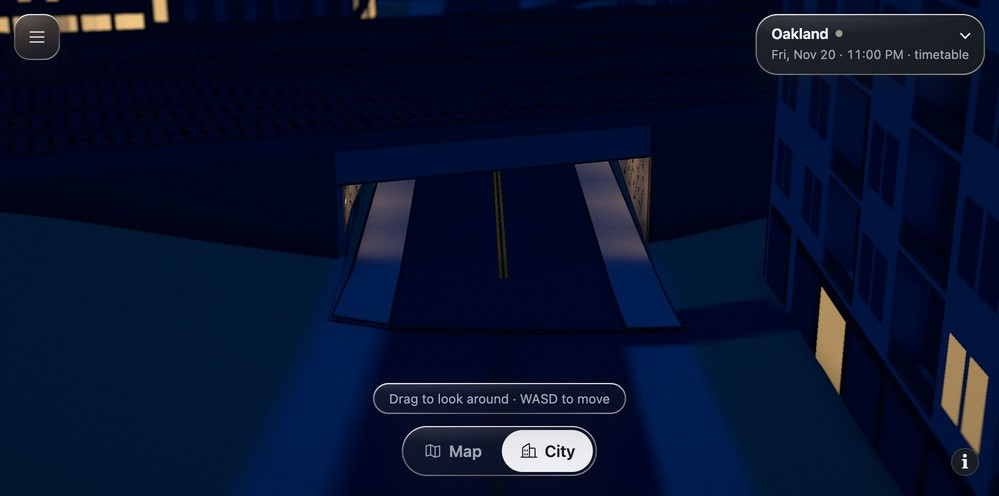
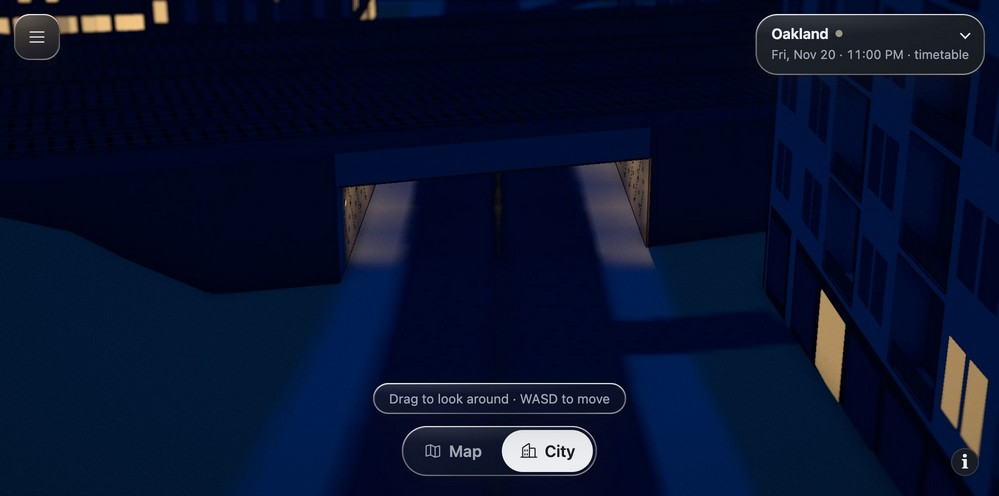
Blend Grant Street through the portal on continuous graded terrain

diff --git a/web/src/city/grant-street.ts b/web/src/city/grant-street.ts
@@ -1,41 +1,88 @@
 // Grant Street SE under the eight CSX tracks. Local geometry and NAVD88
 // evidence are documented in docs/king-freight-crossings.md.
 import type { MeshLambertMaterial } from 'three';
-import type { Builder, P2 } from '../vignette/geom';
-import { PAL } from '../vignette/world';
-import type { GroundYield } from '../terrain/surface';
+import type { Builder } from '../vignette/geom';
+import { PAL, type VRoad } from '../vignette/world';
+import { GroundGrid } from '../terrain/grid';
 
 type Ground = (x: number, z: number) => number | null;
-const zero = 323.8;
+const deckNavd = 313.66;
 const centre = (z: number) => 1381.41 + ((z - 488.14) * 0.73) / 39.29;
-export const grantRoadY = (z: number) => 307.66 + (z - 488.14) * 0.0046 - zero;
-const top = 313.66 - zero;
+const roadNavd = (z: number) => 307.66 + (z - 488.14) * 0.0046;
+const edge = (x: number, south: boolean) => (south ? 527.5 : 486.5) - (x - 1382) * (south ? 0.37 : 0.34);
+const smooth = (distance: number, width: number) => {
+  const t = Math.max(0, Math.min(1, distance / width));
+  return t * t * (3 - 2 * t);
+};
+
+// Keep the street on the actual drawn triangles. Interpolate the two portal
+// returns across the occluded pavement, feathering the approach and verges
+// back into the DEM before either terrain tier chooses its triangulation.
+export class GrantStreetGround extends GroundGrid {
+  override node(row: number, col: number) {
+    const y = super.node(row, col);
+    const { bounds, stepM } = this.manifest;
+    const z = bounds.minZ + row * stepM;
+    if (y === null || z <= 465 || z >= 550) return y;
+    const x = bounds.minX + col * stepM;
+    const weight = smooth(22 - Math.abs(x - centre(z)), 10) * smooth(z - 465, 20) * smooth(550 - z, 20);
+    const pavement = y + weight * (roadNavd(z) - y);
+    // Approach fill rises outside the walls and rolls down into the original
+    // terrain over the shoulder. The street and its painted sidewalks stay flat.
+    const offset = Math.abs(x - centre(z));
+    const bank =
+      smooth(offset - 12, 10) *
+      smooth(x - 1338, 15) *
+      smooth(1442 - x, 16) *
+      smooth(z - edge(x, false) + 8, 12) *
+      smooth(edge(x, true) + 8 - z, 12);
+    return pavement + bank * Math.max(0, deckNavd - 0.35 - pavement);
+  }
+}
+
+/** Paint the two street approaches and the mapped bore in one stroke per
+ * material. Adjacent butt caps leave a transverse hairline at low texel density. */
+export function grantBoardRoads(roads: VRoad[]) {
+  const grant = roads.filter((r) => r.name === 'Grant Street Southeast');
+  const tunnel = grant.find((r) => r.tunnel);
+  if (!tunnel) return roads;
+  const pts = [...tunnel.pts];
+  const joined = new Set([tunnel]);
+  for (const road of grant) {
+    if (road === tunnel) continue;
+    for (const run of [road.pts, [...road.pts].reverse()]) {
+      if (run.at(-1)![0] === pts[0][0] && run.at(-1)![1] === pts[0][1]) {
+        pts.unshift(...run.slice(0, -1));
+        joined.add(road);
+        break;
+      }
+      if (run[0][0] === pts.at(-1)![0] && run[0][1] === pts.at(-1)![1]) {
+        pts.push(...run.slice(1));
+        joined.add(road);
+        break;
+      }
+    }
+  }
+  return [...roads.filter((r) => !joined.has(r)), { ...tunnel, tunnel: false, pts }];
+}
 
 // The bare-earth DEM follows the road instead of the yard for about 70 m.
 // Restore the missing formation, easing back into the measured banks.
-export function grantFormation(x: number, ground: number) {
+export function grantFormation(x: number, ground: number, zero: number) {
   const weight = Math.max(0, Math.min(1, (x - 1338) / 15, (1442 - x) / 16));
-  return ground + weight * Math.max(0, top - ground);
+  return ground + weight * Math.max(0, deckNavd - zero - ground);
 }
 
-export const grantCut: GroundYield = {
-  ring: [
-    [-6.8, 478],
-    [6.8, 478],
-    [6.8, 537],
-    [-6.8, 537],
-  ].map(([d, z]) => [centre(z) + d, z] as P2),
-  floor: (_x, z) => grantRoadY(z) - 0.08,
-};
-
-export function drawGrantStreet(b: Builder, ground: Ground) {
+export function drawGrantStreet(b: Builder, ground: Ground, zero: number) {
+  const top = deckNavd - zero;
+  const roadY = (z: number) => roadNavd(z) - zero;
   // Portals follow the skew of the railway. Eight parallel ballast ribbons
   // remain part of the existing freight batch, including over the opening.
-  const edge = (x: number, south: boolean) => (south ? 527.5 : 486.5) - (x - 1382) * (south ? 0.37 : 0.34);
+
   const row = (x: number, south: boolean) => {
     const z = edge(x, south),
       y = ground(x, z)!;
-    return [x, Math.min(top, grantFormation(x, y)) - 0.05, z];
+    return [x, Math.min(top, grantFormation(x, y, zero)) - 0.05, z];
   };
   const west = 1375.1,
     east = 1388.9;
@@ -66,7 +113,7 @@ export function drawGrantStreet(b: Builder, ground: Ground) {
   for (const x of [west, east]) {
     const a = row(x, false),
       d = row(x, true);
-    b.quad(a, d, [x, grantRoadY(d[2]) - 0.2, d[2]], [x, grantRoadY(a[2]) - 0.2, a[2]], PAL.concrete);
+    b.quad(a, d, [x, roadY(d[2]) - 0.2, d[2]], [x, roadY(a[2]) - 0.2, a[2]], PAL.concrete);
   }
   // Shallow steel crossbeams beneath the ballasted slab. The painted
   // abutments have a repeating ochre diamond in the Grant St panorama.
@@ -83,7 +130,7 @@ export function drawGrantStreet(b: Builder, ground: Ground) {
     b.quad(backA, backC, beam(east, 0.22, 1.5), beam(west, 0.22, 1.5), PAL.girder);
   }
   for (const x of [west + 0.025, east - 0.025]) {
-    const pt = (y: number, z: number) => [x, grantRoadY(z) + y, z];
+    const pt = (y: number, z: number) => [x, roadY(z) + y, z];
     for (let z = edge(x, false) + 1.5; z < edge(x, true) - 1.5; z += 2.6) {
       for (const sign of [-1, 1]) {
         const p = pt(2.3, z + sign * 1.25),
@@ -94,30 +141,14 @@ export function drawGrantStreet(b: Builder, ground: Ground) {
       }
     }
   }
-  // The mapped road carries on through both portals. Match the existing
-  // street's crossfall at the ends of the short approach transitions.
-  const at = (d: number, z: number, lift: number) => {
-    const x = centre(z) + d,
-      blend = Math.max(0, Math.min(1, (z - 478) / 8, (537 - z) / 8));
-    const y = ground(x, z)!;
-    return [x, y + (grantRoadY(z) - y) * blend + lift, z];
-  };
-  for (let z = 478; z < 537; z++) {
-    for (const [left, right, lift, colour] of [
-      [-6.65, -4.5, 0.19, PAL.sidewalk],
-      [-4.5, 4.5, 0.065, PAL.asphalt],
-      [4.5, 6.65, 0.19, PAL.sidewalk],
-      [-0.19, -0.06, 0.08, PAL.lineYellow],
-      [0.06, 0.19, 0.08, PAL.lineYellow],
-    ] as const)
-      b.quad(at(left, z, lift), at(left, z + 1, lift), at(right, z + 1, lift), at(right, z, lift), colour);
-  }
 }
 
 // Warm wall lights are visible in the daytime panorama. The falloff and
 // after-dark intensity are illustrative. Shade the existing batch in place.
-export function grantLighting(material: MeshLambertMaterial, night: { value: number }) {
-  material.onBeforeCompile = (shader) => {
+export function grantLighting(material: MeshLambertMaterial, night: { value: number }, zero: number) {
+  const previous = material.onBeforeCompile.bind(material);
+  material.onBeforeCompile = (shader, renderer) => {
+    previous(shader, renderer);
     shader.uniforms.grantNight = night;
     shader.vertexShader =
       'varying vec3 grantPosition;\n' +
@@ -133,10 +164,10 @@ export function grantLighting(material: MeshLambertMaterial, night: { value: num
       vec3 p = grantPosition;
       float side = abs(p.x - 1382.0);
       float along = mod(p.z - 491.0 + 4.5, 9.0) - 4.5;
-      float pane = length(vec3((side - 6.86)*2., (p.y + 13.2)*2., along));
+      float pane = length(vec3((side - 6.86)*2., (p.y - ${(310.6 - zero).toFixed(3)})*2., along));
       float lamp = 1.0 - smoothstep(.18,.38,pane);
-      float spill = exp(-.14*abs(along) - .24*abs(side-6.86) - .28*abs(p.y+13.2));
-      float inside = step(side,7.0)*step(p.y,-11.65)*smoothstep(486.,490.,p.z)*(1.-smoothstep(525.,529.,p.z));
+      float spill = exp(-.14*abs(along) - .24*abs(side-6.86) - .28*abs(p.y - ${(310.6 - zero).toFixed(3)}));
+      float inside = step(side,7.0)*step(p.y,${(312.15 - zero).toFixed(3)})*smoothstep(486.,490.,p.z)*(1.-smoothstep(525.,529.,p.z));
       outgoingLight += inside*grantNight*vec3(1.,.72,.42)*(lamp + spill*.55*diffuseColor.rgb);
       #include <opaque_fragment>`,
       );

diff --git a/web/src/city/king-memorial-board.ts b/web/src/city/king-memorial-board.ts
@@ -5,7 +5,7 @@ import { createDowntownTerrain } from '../terrain/model';
 import type { JoiningEdge, TerrainQuality } from '../terrain/surface';
 import { createSurfaceTransport } from '../terrain/transport';
 import type { TerrainCity, TransportRun } from '../terrain/transport-data';
-import { drawGrantStreet, grantCut, grantFormation, grantLighting, grantRoadY } from './grant-street';
+import { drawGrantStreet, grantBoardRoads, GrantStreetGround, grantFormation, grantLighting } from './grant-street';
 import kingRail from './fixtures/king-rail.json';
 import { segDist, type P2 } from '../vignette/geom';
 
@@ -69,7 +69,7 @@ export async function loadEast(
   const hex = Array.from(new Uint8Array(digest), (n) => n.toString(16).padStart(2, '0')).join('');
   if (hex !== manifest.sha256) throw new Error('King Memorial ground checksum mismatch');
   signal.throwIfAborted();
-  const grid = new GroundGrid(manifest, bytes);
+  const grid = new GrantStreetGround(manifest, bytes);
   verifyJoin(west, grid);
   if (!context.buildings?.length || !context.roads?.length || !Array.isArray(context.trees))
     throw new Error('Missing King Memorial neighborhood');
@@ -82,21 +82,25 @@ export async function loadEast(
   const treeLowCount = context.treeLowCount === undefined ? undefined
     : context.trees.slice(0, context.treeLowCount).filter(t => !onTrack(t)).length;
   const grantNight = { value: 0 };
+  const grantTunnel = context.roads.find(r => r.tunnel && r.name === 'Grant Street Southeast');
+  const zero = manifest.vertical.sceneZeroNavd88M;
   const area = createDowntownTerrain(grid, context, neighborhoodTrees({ ...context, trees, treeLowCount }, quality), {
-    boardDetails(builder, ground, material) { drawGrantStreet(builder, ground); grantLighting(material, grantNight); },
+    boardRoads: grantBoardRoads(context.roads),
+    boardDetails(builder, ground, material) { drawGrantStreet(builder, ground, zero); grantLighting(material, grantNight, zero); },
     simpleLeafClumps: context.treeLowCount !== undefined,
     quality,
     bottomY,
     join: extraJoin ? [eastJoin, ...(Array.isArray(extraJoin) ? extraJoin : [extraJoin])] : eastJoin,
     finishFor: marchonFinishes(context.buildings),
   });
+  grantLighting(area.board.material, grantNight, zero);
   let freight: ReturnType<typeof kingFreight>;
   try { freight = kingFreight(context, grid, area); }
   catch (error) { area.dispose(); throw error; }
   const streetHeight = cityRoadHeight(context, area.groundAt);
   const roadHeight: typeof streetHeight = (x,z,road) =>
-    road.tunnel && road.name === 'Grant Street Southeast' && z >= 488.14 && z <= 527.43
-      ? grantRoadY(z) + .065 : streetHeight(x,z,road);
+    road.tunnel && road.name === grantTunnel?.name && z >= 488.14 && z <= 527.43
+      ? area.groundAt(x,z) : streetHeight(x,z,road);
   return {
     ...area,
     connectorBoard: { city: context, roadHeight },
@@ -115,10 +119,10 @@ export async function loadEast(
 export function kingFreight(context: TerrainCity, grid: GroundGrid, area: ReturnType<typeof createDowntownTerrain>) {
   const freightGround = Object.assign((x:number,z:number,run?:TransportRun) => {
     const y=area.groundAt(x,z);
-    return run && y!==null ? grantFormation(x,y) : y;
+    return run && y!==null ? grantFormation(x,y,grid.manifest.vertical.sceneZeroNavd88M) : y;
   }, {triangles:area.groundAt.triangles});
   const transport = createSurfaceTransport({ ...context, terrainTransport: { version: 1, roads: [], rail } }, grid, freightGround);
-  area.carve([...transport.cutting, grantCut]);
+  area.carve(transport.cutting);
   area.group.add(transport.group);
   return transport;
 }

diff --git a/web/src/city/king-rail.test.ts b/web/src/city/king-rail.test.ts
@@ -71,7 +71,20 @@ it('draws ballast along every King Memorial freight run', () => {
 
 it.each(['low','high'] as const)('carries the eight CSX tracks over a clear Grant Street on %s', async quality => {
   // Through City's own loader, so dropping the freight from the mount is caught too.
-  const ctx = new Proxy({}, { get: () => () => {} });
+  let path: number[][] = [];
+  const grantStrokes: string[] = [];
+  const drawing = {
+    strokeStyle: '',
+    beginPath() { path = []; },
+    moveTo(x: number, z: number) { path = [[x, z]]; },
+    lineTo(x: number, z: number) { path.push([x, z]); },
+    stroke() {
+      if (path[0]?.[1] === 414.2 && path.at(-1)?.[1] === 640 &&
+          path.some(p => p[1] === 488.14) && path.some(p => p[1] === 527.43))
+        grantStrokes.push(this.strokeStyle);
+    },
+  };
+  const ctx = new Proxy(drawing, { get: (o, k) => Reflect.get(o, k) ?? (() => {}) });
   vi.stubGlobal('document', { createElement: () => ({ getContext: () => ctx }) });
   vi.stubGlobal('fetch', async (url: string) => {
     const name = url.split('/scene/king-memorial/')[1];
@@ -82,6 +95,7 @@ it.each(['low','high'] as const)('carries the eight CSX tracks over a clear Gran
   const west = new GroundGrid(JSON.parse(readFileSync(new URL('ground.json', down), 'utf8')), Uint8Array.from(readFileSync(new URL('ground.i16', down))).buffer);
   const area = await loadEast('/data', west, quality, -48, new AbortController().signal);
   try {
+    expect(grantStrokes).toEqual(expect.arrayContaining(['#d9d3c7', '#5d5f66', '#d8bd79']));
     const mesh = area.group.getObjectByName('Freight track') as Mesh | undefined;
     expect(mesh?.geometry.getAttribute('position').count ?? 0).toBeGreaterThan(1000);
     const ray = new Raycaster();
@@ -95,14 +109,14 @@ it.each(['low','high'] as const)('carries the eight CSX tracks over a clear Gran
     expect(tracks).toHaveLength(8);
     for (const z of tracks) {
       ray.set(new Vector3(x,0,z),down);
-      expect(ray.intersectObject(mesh!,false)[0]?.point.y).toBeCloseTo(313.66+.13-323.8,1);
+      expect(ray.intersectObject(mesh!,false)[0]?.point.y).toBeCloseTo(313.66+.13-west.manifest.vertical.sceneZeroNavd88M,1);
     }
     const road = area.connectorBoard.city.roads.find(r => r.tunnel && r.name === 'Grant Street Southeast')!;
     for(let z=489;z<=526;z+=.5) {
       for(const dx of [-3.5,0,3.5]){
         const y=area.connectorBoard.roadHeight(x+dx,z,road)!;
-        expect(y).toBeGreaterThan(-16.3);
-        expect(area.terrainAt(x+dx,z)!).toBeLessThan(y);
+        expect(y + west.manifest.vertical.sceneZeroNavd88M).toBeCloseTo(307.66 + (z-488.14)*.0046,1);
+        expect(area.terrainAt(x+dx,z)).toEqual(y);
         ray.set(new Vector3(x+dx,y+4.10,z),down);
         expect(ray.intersectObject(area.board,true)[0]?.point.y).toBeCloseTo(y,1);
       }

diff --git a/web/src/terrain/model.ts b/web/src/terrain/model.ts
@@ -42,6 +42,8 @@ type Contours = { value: number };
 export interface DowntownTerrainOptions {
   quality: TerrainQuality;
   simpleLeafClumps?: boolean;
+  /** Optional continuous road axes for the painted terrain surface. */
+  boardRoads?: TerrainCity['roads'];
   boardDetails?: (builder: Builder, ground: (x:number,z:number)=>number|null, material: THREE.MeshLambertMaterial) => void;
   join?: TerrainJoins;
   bottomY?: number;
@@ -185,7 +187,8 @@ export function createDowntownTerrain(grid: GroundGrid, city: TerrainCity, trees
   city = midtownFoundations(city, grid.manifest.vertical.sceneZeroNavd88M);
   const mesh = new GroundSurface(grid, options.quality, options.openings, options.join);
   const bare = (x: number, z: number) => mesh.sampleScene(x, z);
-  const board = makeBoard(mesh, city, options.quality, options.contours ?? { value: 0 }, options.join, options.bottomY, options.boardDetails);
+  const paintCity = options.boardRoads ? { ...city, roads: options.boardRoads } : city;
+  const board = makeBoard(mesh, paintCity, options.quality, options.contours ?? { value: 0 }, options.join, options.bottomY, options.boardDetails);
   const lighting = underpassLights(city,mesh,board.material.map);
   if (lighting) board.add(lighting.group);
   const portals = [...streetPortals(city), ...junctionPortals(city), ...seventeenthPortals(city)];

diff --git a/docs/king-freight-crossings.md b/docs/king-freight-crossings.md
@@ -33,9 +33,9 @@ Reproduce with `ept_points` in `pipeline/scripts/king_memorial_corridor.py`. Rea
 
 ## City treatment
 
-Only Grant is inside this board. Its continuous rails and sleeper texture use the freight batch from #334. The formation rises back to the lidar top over the hole left by the removed structure. The pavement follows the interpolated road elevation through the portal. A bounded terrain cut keeps the sidewalks and road clear, and the traffic height resolver uses the same road grade. Girder depth, span width, painted pattern, lamp placement and warm night intensity are illustrative. As at North Avenue, the road has a drawn soffit, daylight at the far portal and continuous material across the deck. The structure shares an existing board draw on both tiers.
+Only Grant is inside this board. Its continuous rails and sleeper texture use the freight batch from #334. The formation rises back to the lidar top over the hole left by the removed structure. The pavement follows the interpolated road elevation through the portal. The street, sidewalks and centreline are each painted in one continuous stroke from the north approach to the south. The inferred grade feathers into the original terrain at the verges and portal approaches. Traffic samples those same drawn triangles. Girder depth, span width, painted pattern, lamp placement and warm night intensity are illustrative. As at North Avenue, the road has a drawn soffit, daylight at the far portal and continuous material across the deck. The structure shares an existing board draw on both tiers.
 
-The model provides about 4.1 m from pavement to the lowest girder. A ray test checks a clear 4.10 m envelope across both lanes. On low, the mounted King group has 13 meshes before and after. Counting geometry including instances gives 51,378 triangles before and 50,735 after: the raised ballast also removes terrain cuts that followed the old depression.
+The model provides a minimum sampled headroom of 4.21 m. At both tiers a 25 cm lattice returned ground at all 12,561 roadway and sidewalk probes, including 8,636 under the structure. A regression checks a clear 4.10 m envelope across both lanes, plus the paint strokes across both portal joints. On low, the mounted King group has 13 meshes before and after. Counting geometry including instances gives 51,378 triangles before and 49,779 after: the raised ballast also removes terrain cuts that followed the old depression.
 
 Matched City views use camera `1382,525,0,82,60`, high tier, dev minimum distance 5 m, November 20 at 14:00 and 23:00 Eastern.
 

diff --git a/docs/build-log.md b/docs/build-log.md
@@ -3033,4 +3033,4 @@ With all 12 areas loaded, three fresh Chrome runs held 571 MB after garbage coll
 
 ### 2026-11-23 — Grant Street runs beneath the CSX yard
 
-The bare-earth DEM put eight freight tracks at road level. April 2019 lidar still sees the deck at 313.67 m NAVD88, about six metres above the Grant Street approaches. Restoring the yard formation let us keep the original ballast and sleepers continuous across a single skewed opening. The road, sidewalks, walls and soffit share the board’s existing draw. The low and high ground checks each sampled the road, paint and sidewalks 107,970 times at 25 cm spacing, with zero penetrations. [Matched daylight and night views, camera and survey](king-freight-crossings.md).
+The bare-earth DEM put eight freight tracks at road level. April 2019 lidar still sees the deck at 313.67 m NAVD88, about six metres above the Grant Street approaches. Restoring the yard formation let us keep the original ballast and sleepers continuous across a single skewed opening. A separate road slab left a visible lip. Painting the asphalt, centreline and sidewalks straight through on the graded terrain removed it. The low and high checks each found continuous ground at 12,561 points, with at least 4.21 m of headroom under the girders. [Matched daylight and night views, camera and survey](king-freight-crossings.md).
